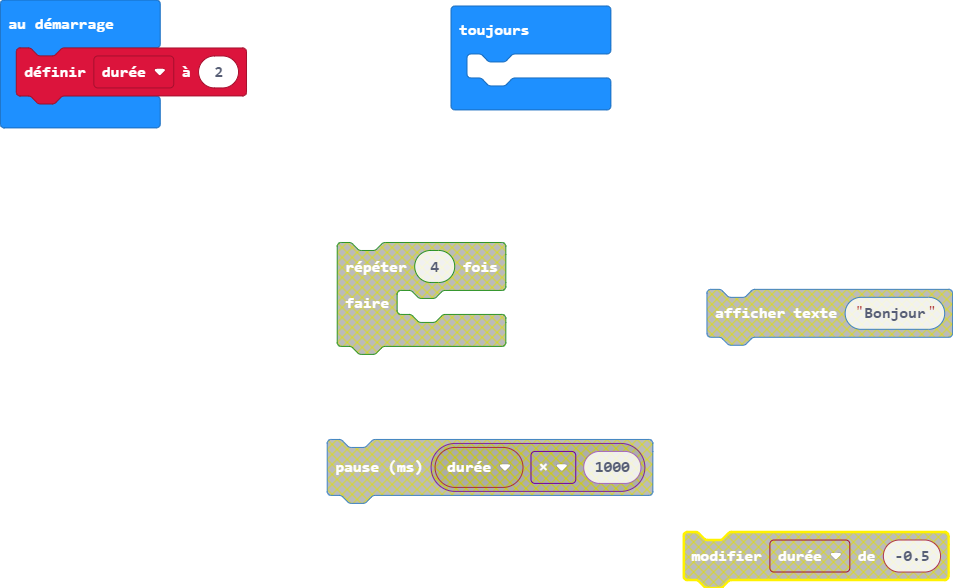
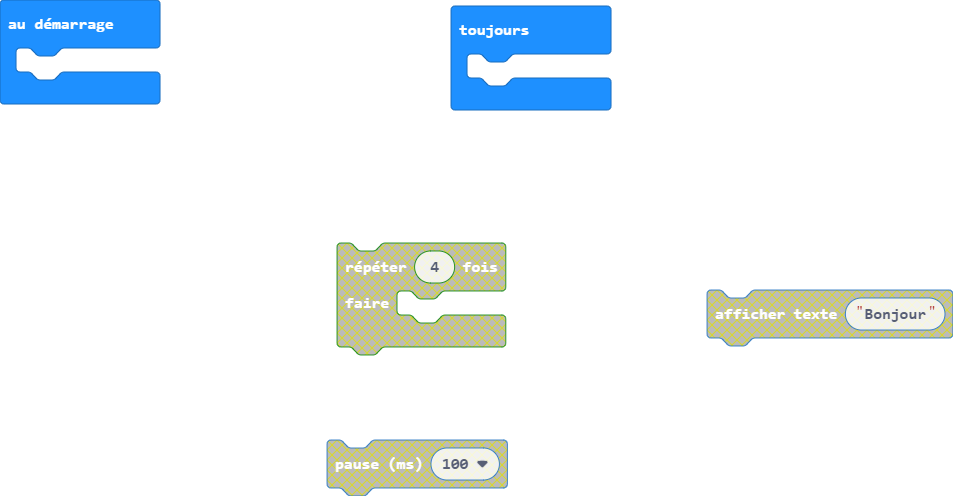
Mise à jour main.blocks, main.ts

diff --git a/main.ts b/main.ts
@@ -1,4 +1,3 @@
-let durée = 2
 basic.forever(function () {
 	
 })
